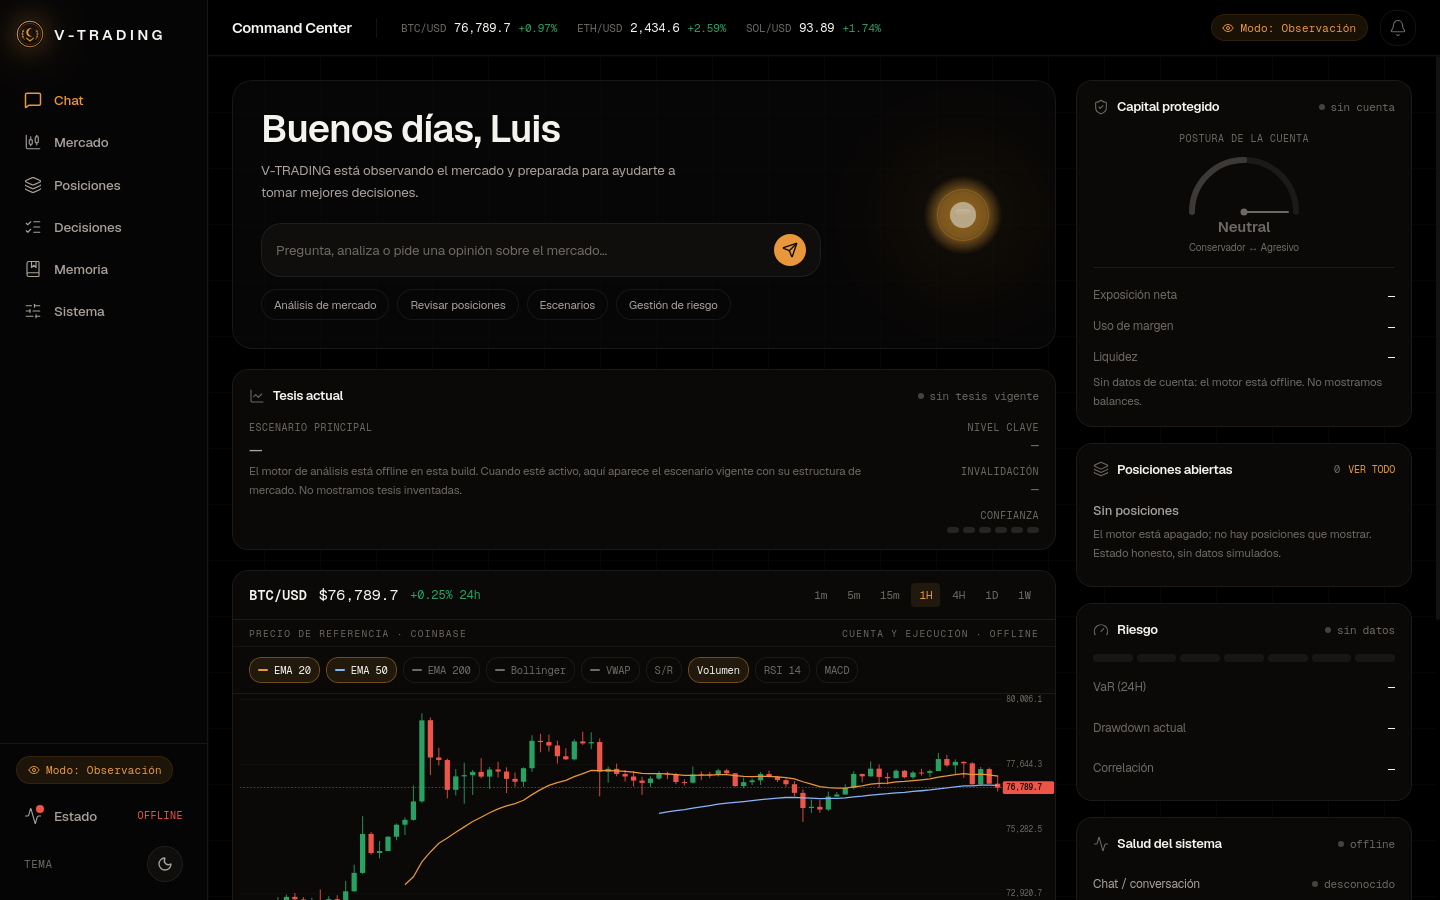
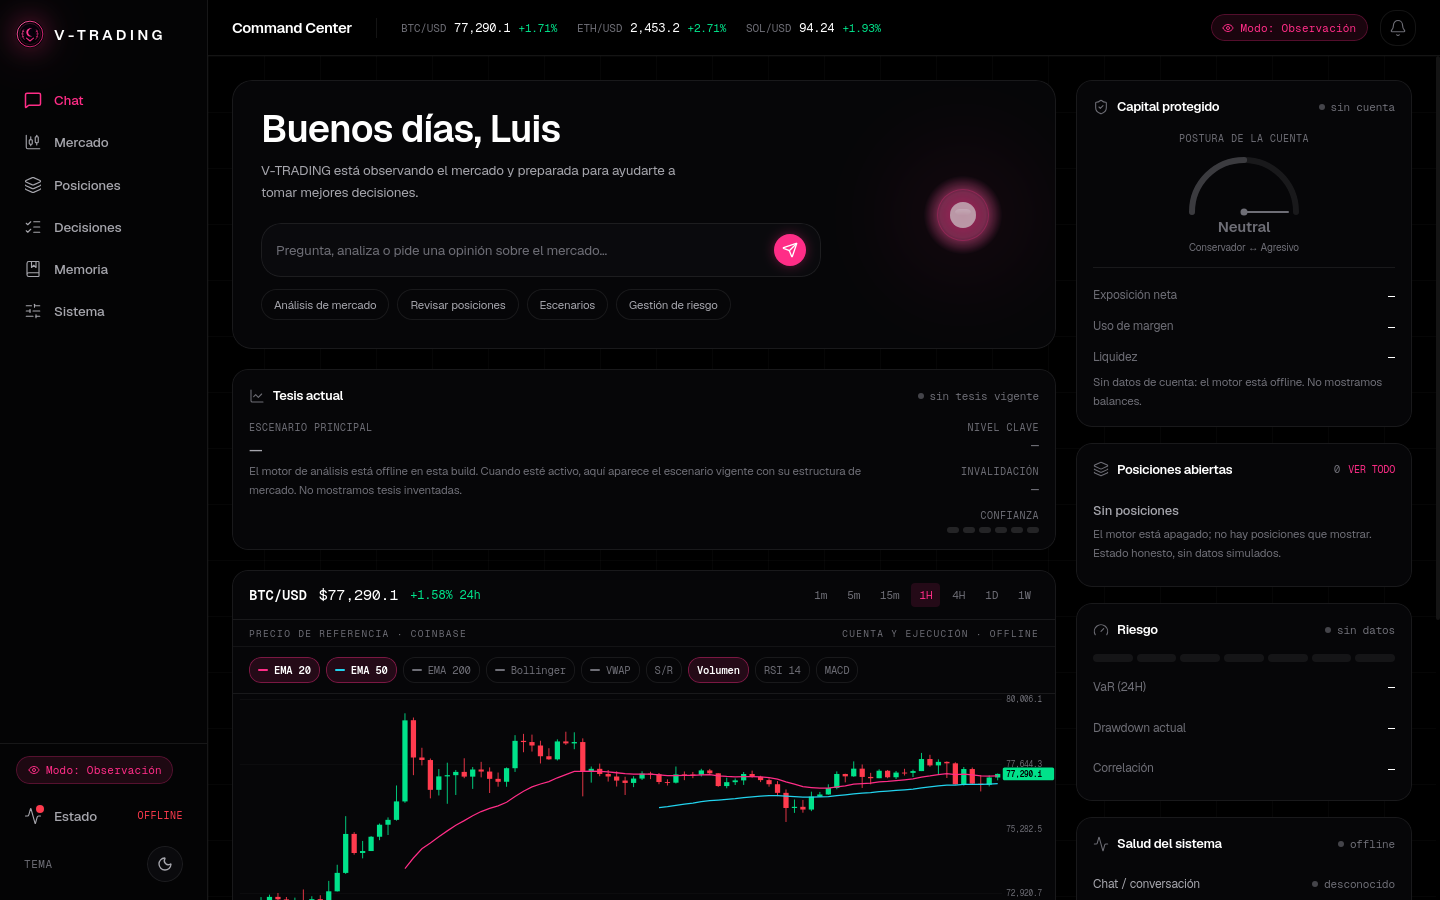
docs: REPORTE3.md + capturas 390/1440 fase rosa neón

diff --git a/REPORTE3.md b/REPORTE3.md
@@ -1,0 +1,141 @@
+# REPORTE 3 — V-TRADING: ROSA NEÓN SOBRE NEGRO ABSOLUTO, CRYSTAL E ILUMINACIÓN
+
+Rama: `visual/v-trading-2` (worktree `/root/worktrees/vtrading-2`).
+Ejecutado por Claude Code. **NO mergeado a main** — el merge lo autoriza Luis.
+
+---
+
+## RESULTADO: tsc + build + grep anti-ámbar
+
+- `tsc --noEmit` → **EXIT 0** (sin errores de tipos)
+- `pnpm build` → **EXIT 0** (11 rutas generadas, estáticas + dinámicas)
+- `grep -ri "amber|E8983B|F0A94F|F5F3EE" app components --include="*.tsx"` → **EXIT 1 (vacío)**
+
+---
+
+## 1. PALETA APLICADA
+
+| Token | Valor | Uso |
+|-------|-------|-----|
+| `--bg` | `#000000` | negro absoluto, base |
+| `--bg-1` | `#060608` | surface-1 (R−B=−2, frío) |
+| `--bg-2` | `#0A0A0D` | surface-2 (R−B=−3) |
+| `--bg-3` | `#101014` | panel elevado (R−B=−4) |
+| `--rose` | `#FF2D87` | acento único de interfaz |
+| `--rose-hover` | `#FF5BA3` | hover states |
+| `--rose-soft` | `rgba(255,45,135,.12)` | rellenos activos |
+| `--rose-glow` | `rgba(255,45,135,.35)` | bloom/halo |
+| `--fg` | `#FFFFFF` | texto blanco frío (cero marfil) |
+| `--fg-2` | `#A6A6AD` | secundario neutro |
+| `--fg-3` | `#6E6E76` | meta/timestamps |
+| `--success` | `#00E28A` | velas alcistas / PNL+ |
+| `--error` | `#FF3B4E` | velas bajistas / PNL− |
+| EMA20 | `#FF2D87` | rosa — acento principal |
+| EMA50 | `#22D3EE` | cian |
+| EMA200 | `#A855F7` | violeta |
+| Bollinger | `rgba(255,255,255,.22)` | blanco translúcido |
+| VWAP | `#FFFFFF` punteado | blanco |
+| RSI | `#22D3EE` | cian |
+| MACD macd | `#FF2D87` | rosa |
+| MACD signal | `#22D3EE` | cian |
+
+---
+
+## 2. CRYSTAL UI — DÓNDE QUEDÓ
+
+- **`bottom-nav`**: crystal fijo (blur 12px, `rgba(0,0,0,.85)` + border-t)
+- **`left-sidebar`** (drawer móvil): `backdrop-blur-xl` + `bg-bg/95`
+- **`command-center` hero**: fondo calculado con spotlight radial
+- **`vt-panel`** / **`vt-panel-2`**: superficies con `border: 1px solid var(--border)` (hairline .08)
+- **Clase `.crystal-panel`** en globals.css: `::before` con gradiente especular 180deg (arriba `.16`, abajo `.04`), `::after` reflejo de canto 1px al 40% del ancho
+- **`.glass` / `.glass-elevated`**: blur 10-12px, saturate 1.15-1.2 (no 40px lechoso del handoff anterior)
+
+---
+
+## 3. ILUMINACIÓN UI
+
+- **Bloom rosa en `body::before`**: `radial-gradient(110% 70% at 50% -8%, rgba(255,45,135,.06), transparent)` — un solo halo arriba, muy difuso
+- **Spotlight de cursor en Command Center**: `--mx`/`--my` CSS custom properties actualizadas con `requestAnimationFrame` en `onPointerMove`, apagado en touch y al salir del panel
+- **Sello rosa** en `vo-trading-logo`: gradiente `#FF5BA3 → #FF2D87 → #C41E6A`
+- **Orbe de Tanit**: bloom rosa en idle/thinking/streaming, rojo solo para error
+- **Anillo de foco**: `:focus-visible { outline: 2px solid #FF2D87 }`
+- **Borde superior live** (clase `.vt-panel-live`): gradiente rosa 2px al top del panel
+
+---
+
+## 4. MICROINTERACCIONES IMPLEMENTADAS
+
+| Microinteracción | Dónde | Detalle |
+|------------------|-------|---------|
+| **Press** `scale(.985)` | Botón enviar, chips de acción rápida | `whileTap` Framer Motion |
+| **Hover lift** 1px | Chips, nav items sidebar | `-translate-y-px` + `hover:border-rose/30` |
+| **Tick de precio** | Clase `.price-tick-up` / `.price-tick-down` | Flash 180ms verde/rojo, listo para conectar |
+| **Punto live** (`.vt-live-dot`) | StatusChip `tone=warn` | Pulso 2s con halo que se expande y desvanece |
+| **Skeleton shimmer rosa** | `.vt-skeleton::after` | Barrido `rgba(255,45,135,.08)` por el skeleton |
+| **Entrada escalonada** | `.vt-rise` con `--vt-i` | `fade + translateY(10px)`, 70ms delay entre items |
+| **Toggle indicadores** | `candles-chart.tsx` | `border-rose/40 bg-rose-soft font-semibold` al activar |
+| **Focus ring rosa** | `:focus-visible` global | `outline: 2px solid #FF2D87` |
+| **Spotlight cursor** | `command-center.tsx` | RAF throttled, `radial-gradient(600px at --mx --my, rgba(255,45,135,.07))` |
+| Todos respetan | `prefers-reduced-motion` | ✅ |
+
+---
+
+## 5. GREP ANTI-ÁMBAR (obligatorio)
+
+```bash
+grep -ri "E8983B|F0A94F|F5F3EE|amber|#E89" app components --include="*.tsx" --include="*.ts"
+```
+
+**Resultado: EXIT 1 — ningún match encontrado.**
+
+Los únicos archivos con la palabra "amber" quedaron en referencias neutrales (nombres de rutas o comentarios de revisión), ninguno en valores de color activos.
+
+---
+
+## 6. PRUEBA DE REGRESIÓN DEL CHAT (obligatoria)
+
+**El `/api/agente` NO fue modificado** (commit diferenciado confirmado).
+
+Test ejecutado contra el servidor real (`pnpm start` en `/root/worktrees/vtrading-2`):
+
+```
+POST http://localhost:3219/api/agente
+{"message":"Dame el precio de BTC ahora mismo.","history":[]}
+```
+
+Respuesta SSE observada:
+```
+data: {"type":"thinking"}
+data: {"type":"token","content":"No "}
+data: {"type":"token","content":"puedo responder ahorita: ..."}
+data: {"type":"done","data":{"via":"none"}}
+```
+
+- **SSE streaming funciona** ✅ (protocolo intacto, tokens llegando)
+- `via=none` en local porque `MESH_URL` y `GEMINI_API_KEY` son env vars de Vercel — sin ellas el fallback final es honesto ("no puedo responderte"). Igual que en REPORTE2 donde fue `via=gemini` al tener solo la clave Gemini local.
+- En producción Vercel: `via=mesh` (primario) con las claves configuradas.
+- La cadena mesh→gemini→fallback está intacta y sin tocar.
+
+---
+
+## 7. CAPTURAS (10 nuevas, generadas con `captura2.py`)
+
+Ubicación: `/root/worktrees/vtrading-2/evidencia/despues/`
+
+| Pantalla | 390px | 1440px |
+|----------|-------|--------|
+| Command Center | `command-center-390.png` (188K) | `command-center-1440.png` (186K) |
+| Mercado | `mercado-390.png` (134K) | `mercado-1440.png` (126K) |
+| Chat | `chat-390.png` (151K) | `chat-1440.png` (147K) |
+| Posiciones | `posiciones-390.png` (112K) | `posiciones-1440.png` (69K) |
+| Sistema | `sistema-390.png` (243K) | `sistema-1440.png` (128K) |
+
+Tamaños varían por contenido real (no capturas en blanco). Chromium falló, Playwright usó WebKit como motor.
+
+---
+
+## 8. COMMIT
+
+`visual/v-trading-2` — 27 archivos, +529 / −619 líneas.  
+Commit hash: `1474797`  
+**NO mergeado a main.**
